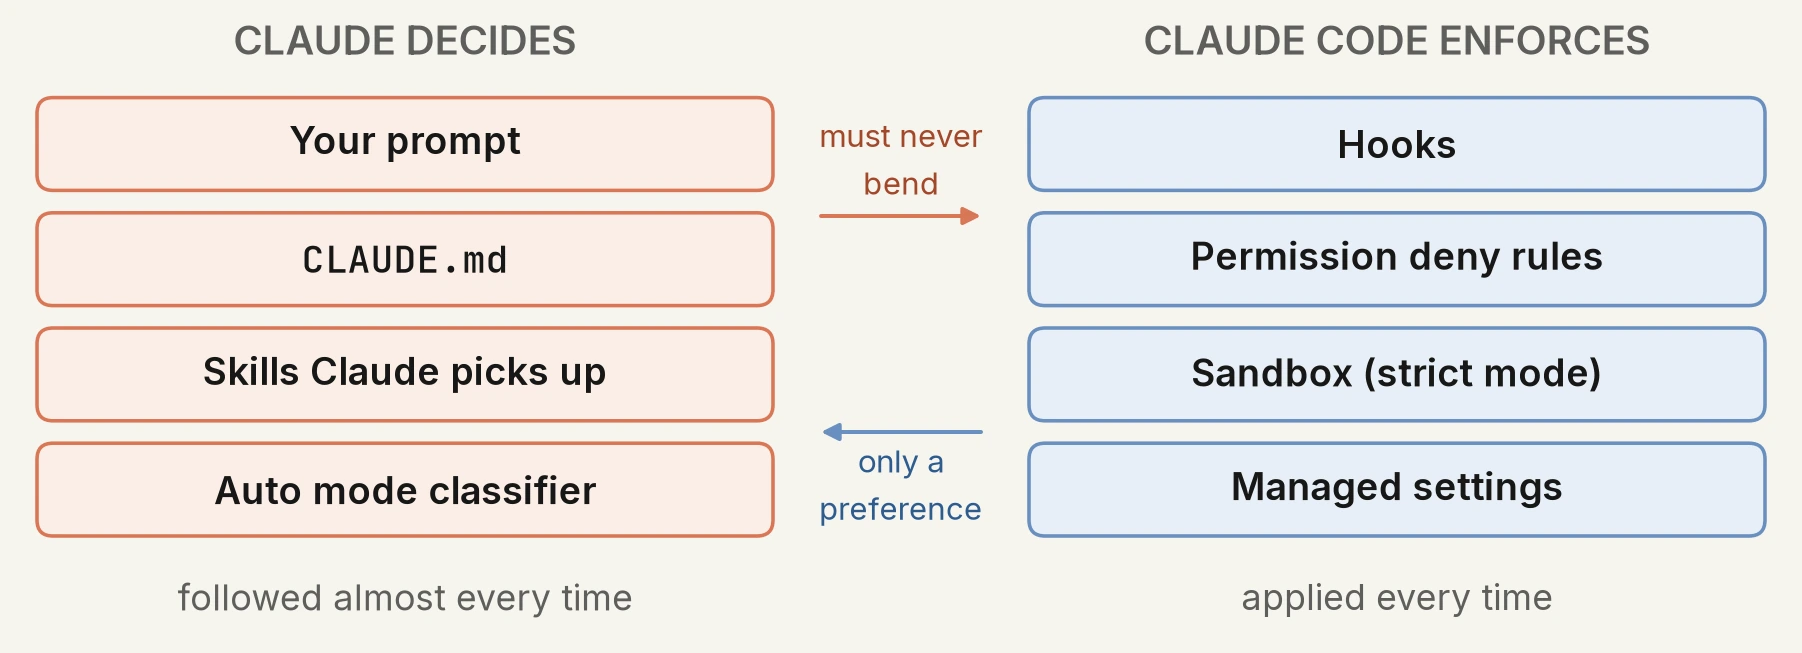
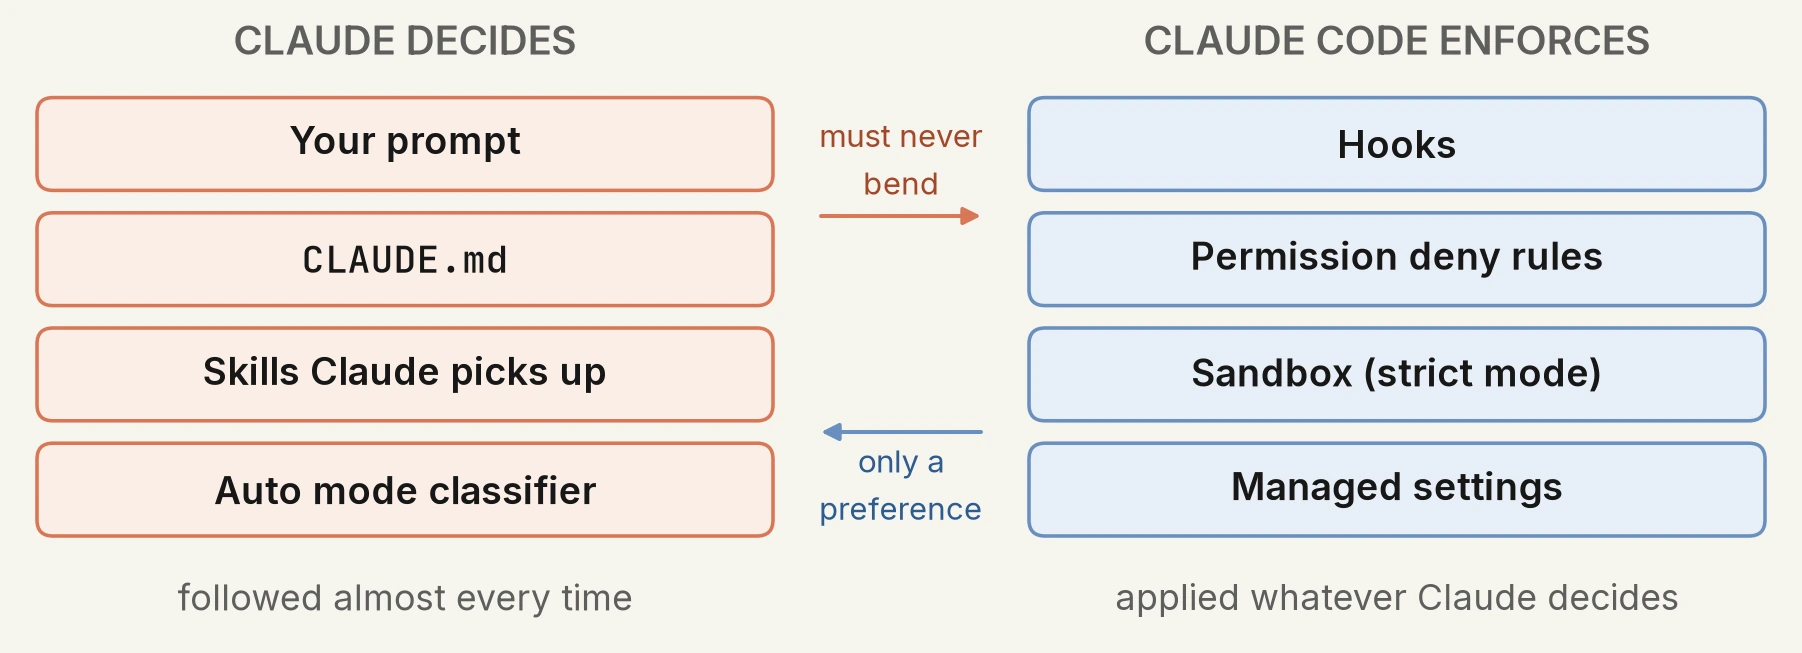
fix(deck): qualify enforcement claims and harden verification advice (#74)
Tightens claims that overpromised and makes the deck's own examples
follow its verification advice.

| Slide | Change |
| --- | --- |
| Start with the defaults (notes) | Scope auto mode and the other
defaults to new terminal sessions, since `claude -p` runs differ |
| Choose how strictly to hold it | Add `/verify` and a reviewer that
checks the diff against `SPEC.md` for correctness gaps |
| A `Stop` hook makes the check non-negotiable | Keep required CI as the
final gate; notes no longer say the turn "cannot end" |
| Guidance or enforcement? | Diagram label "applied every time" becomes
"applied whatever Claude decides" |
| Two rules, enforced | Hooks that crash or time out let the action
through unless they set `"onFailure": "block"` |
| Subagents buy speed and fresh eyes | Diagram note says delegating
alone does not buy a better answer |
| The answers, as flags | Script allows `pnpm test` and commits only
when it passes; new `--bare` tile says it skips hooks and `CLAUDE.md` |

`llms-full.txt` and its `.well-known/` mirror reflect the same changes.

## Validation

- `uv run python media/generate_diagrams.py` regenerates diagrams 07 and
10.
- `just render` succeeds.
- Every changed slide was checked at 1280×720 for overflow; screenshots
follow.

Changed region(s): [[0.6215, 0.8882, 0.9323, 0.9495]]

diff --git a/media/generate_diagrams.py b/media/generate_diagrams.py
@@ -226,7 +226,7 @@ def make_two_kinds():
         box(ax, 2.9, y, 4.6, 0.58, CLAY, l, fs=17, mono=l == 'CLAUDE.md')
         box(ax, 9.1, y, 4.6, 0.58, BLU, r, fs=17)
     lbl(ax, 2.9, 0.55, 'followed almost every time', fs=16)
-    lbl(ax, 9.1, 0.55, 'applied every time', fs=16)
+    lbl(ax, 9.1, 0.55, 'applied whatever Claude decides', fs=16)
     arr(ax, 5.5, 2.95, 6.5, 2.95, col=CLAY)
     lbl(ax, 6.0, 3.3, 'must never\nbend', fs=14, col='#A3482A')
     arr(ax, 6.5, 1.6, 5.5, 1.6, col=BLU)
@@ -299,7 +299,7 @@ def make_subagents():
         box(ax, x, 1.95, 3.4, 1.3, col, head, fs=19, sub=sub, sfs=15)
         arr(ax, 6.0 + (x - 6.0) * 0.4, 3.28, x, 2.62)
     box(ax, 6.0, 0.45, 11.0, 0.58, RED,
-        'Cost: every subagent sends its own requests.  Same model, so not a smarter answer.', fs=15, ls='--')
+        'Cost: every subagent sends its own requests.  Delegating alone does not buy a better answer.', fs=15, ls='--')
     save(fig, 'diag-10-subagents.webp')
 
 
